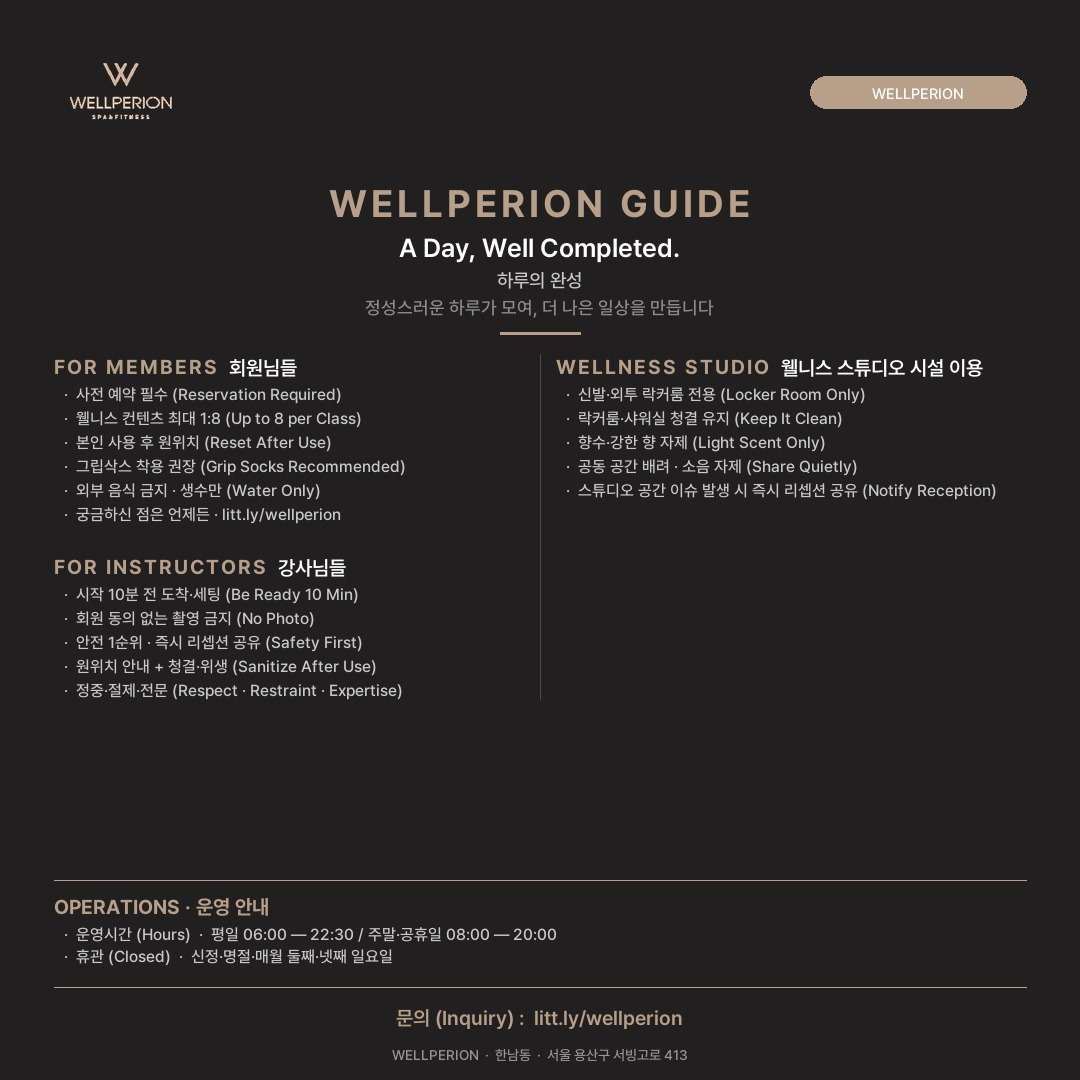
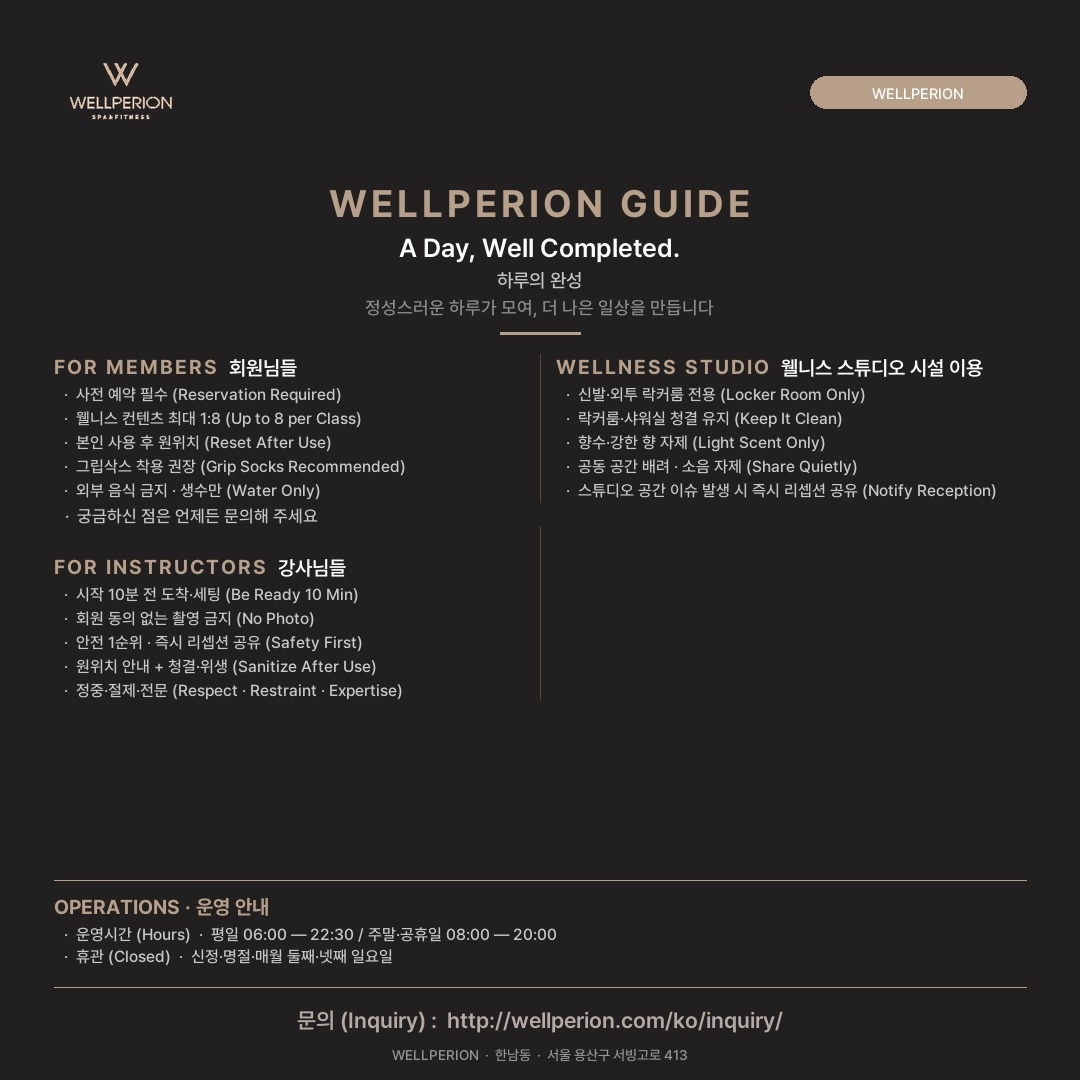
fix(cmo): 콘텐츠 제작 활성 소스 CTA litt.ly → http://wellperion.com/ko/inquiry/
신규 업로드 산출물마다 옛 litt.ly 링크가 찍히던 원인(제작 소스 박힘) 제거.
활성 템플릿/생성기만 교체, 과거 발행·아카이브·증빙은 불변 보존.

- instagram/_assets/guideline_card.jpg: 매 IG 콘텐츠 마지막 자동첨부 표준 GUIDE 카드.
  litt.ly 2곳(회원 안내 bullet · 푸터 문의) surgical 패치 → 푸터 = inquiry 풀경로,
  회원 bullet은 컬럼 폭 제약상 "문의해 주세요"로 정리(URL은 푸터 단일 노출).
  Pretendard 폰트·원색·배경 매칭, 레이아웃 무변경. 생산 컴포지터로 재생성 렌더 검증.
- scripts/slide_compositor.py: footer_meta docstring 예시 litt.ly → inquiry.
- scripts/naver_blog_upload_playwright.py: 스티커 앵커 주석의 예시 문의줄 litt.ly → inquiry.
- cmo/survey/create_english_forms.gs (4곳) + cmo/survey/en/*.md (4파일):
  영문 폼 안내문 "For immediate assistance" CTA litt.ly → inquiry.

미변경(의도): instagram/{date}_*/ 과거 발행분·증빙, cmo_kpi_collector(KPI 라벨),
ig_series_producer(litt.ly 금지 명시), apps_script_survey.js(시스템 설명 주석),
review_queue.json(발행 이력), onboarding/game.html(전환 교육 콘텐츠).

Changed region(s): [[0.275, 0.9167, 0.7028, 0.9778], [0.0611, 0.4583, 0.3056, 0.4889]]

diff --git a/3. 웰페리온 가이드/wellperion_guide(main).html b/3. 웰페리온 가이드/wellperion_guide(main).html
@@ -616,17 +616,17 @@
     <!-- AUTO:LATEST-START -->
     <div class="card grow">
       <h4>최신 업데이트 — 2026-06-04 (자동 갱신)</h4>
+      <p><strong>2026-06-04</strong> feat(hub): 가이드허브 favicon = 웰리 왕관 심볼(2번) 적용</p>
       <p><strong>2026-06-04</strong> feat(brand): 웰리 공식 심볼 확정(2번 왕관+보석) + 6종 변형·엠블럼·favicon·SVG 누적 — instagram/Ima…</p>
       <p><strong>2026-06-04</strong> feat(cto): Bing 이미지 크리에이터 무료 AI 그림 생성 자동화 도구</p>
       <p><strong>2026-06-04</strong> feat(cto): wordpress_admin_playwright swap-href 모드 — 본문 단일 href 외과적 치환</p>
       <p><strong>2026-06-04</strong> feat(cmo): 당근 글+임시저장 자동화 성공 — 제목·본문·임시저장 작동 / 이미지 Shadow DOM 첨부는 시토 R&D 위임(B)</p>
-      <p><strong>2026-06-04</strong> feat(designer): 웰리 엠블럼 시안2 — 미니멀 라인 심볼 SVG 2종(왕관+미소/왕관얼굴) + PNG. 브랜드색 베이지선·블랙…</p>
     </div>
 <!-- AUTO:LATEST-END -->
         <table>
           <tr><th style="width:160px">날짜</th><th>변경 내용</th></tr>
           <!-- AUTO:TABLE-START -->
-      <tr><td><strong>2026-06-04 (자동)</strong></td><td>feat(brand): 웰리 공식 심볼 확정(2번 왕관+보석) + 6종 변형·엠블럼·favicon·SVG 누적 — instagram/Image/welly_concept · feat(cto): Bing 이미지 크리에이터 무료 AI 그림 생성 자동화 도구 · feat(cto): wordpress_admin_playwright swap-href 모드 — 본…</td></tr>
+      <tr><td><strong>2026-06-04 (자동)</strong></td><td>feat(hub): 가이드허브 favicon = 웰리 왕관 심볼(2번) 적용 · feat(brand): 웰리 공식 심볼 확정(2번 왕관+보석) + 6종 변형·엠블럼·favicon·SVG 누적 — instagram/Image/welly_concept · feat(cto): Bing 이미지 크리에이터 무료 AI 그림 생성 자동화 도구 · feat(cto)…</td></tr>
       <!-- AUTO:TABLE-END -->
           <tr><td><strong>2026-05-28 (14차)</strong></td><td>공지/안내문 생성(COO 하위) · 오프라인 홍보물 디자인 제작(CMO 하위) 도구 신설 · 공지 서식 v2.0 독립 페이지화 · 회사소개서·전략로드맵 원본 「3. 웰페리온 가이드/회사문서/」로 이관(SSOT 단일화) · C-Level 부팅 R/R Notion API→가이드허브 g10 참조로 전환 · GitHub Pages 워크플로 폴더명 경로 수정 · 사이드바 "공통+7개 C-Level" 라벨 제거</td></tr>
           <tr><td>2026-05-27 (13차)</td><td>GitHub Pages 전환 · 사이드바 4섹터 · AI C-Level 통일 · 운영 통합 체계 · 공식채널·지출현황·취업규칙·SSOT 신설 · g2+g19·g9+g20·g12·g13 합병 · 김남욱 탭 확장 · v2.5</td></tr>

diff --git a/scripts/naver_blog_upload_playwright.py b/scripts/naver_blog_upload_playwright.py
@@ -529,7 +529,7 @@ async def _enter_write_and_fill(page, post: BlogPost, blog_id: str | None) -> No
         pass
 
     # 스티커 2개 위치 지정 삽입 (GM 지시 2026-06-03):
-    #   ① 본문 맨 처음 1개  ② '문의 : litt.ly/wellperion' 줄 다음 1개.
+    #   ① 본문 맨 처음 1개  ② '문의 : http://wellperion.com/ko/inquiry/' 줄 다음 1개.
     #   순서: 시작 스티커 먼저 → '문의' 줄 재탐색 후 그 다음에 삽입(텍스트 매칭이라 caret 충돌 없음).
     #   이미지는 맨 마지막에 본문 끝(Ctrl+End)으로 삽입하므로 스티커와 caret 충돌 없음.
     sticker_count = getattr(post, "sticker_count", STICKER_COUNT_DEFAULT)

diff --git a/scripts/slide_compositor.py b/scripts/slide_compositor.py
@@ -581,7 +581,7 @@ def compose_unified_slide(
     Args:
         label_eng: 영문 라벨 (정보 영역 상단, 대문자, 작게)
         body_text: 한글 본문 (줄바꿈 \\n 구분 다중 줄)
-        footer_meta: 풋터 라인 (예: "litt.ly/wellperion") — 옵션
+        footer_meta: 풋터 라인 (예: "http://wellperion.com/ko/inquiry/") — 옵션
     """
     if aspect not in ASPECT_PRESETS:
         raise ValueError(f"Unknown aspect: {aspect}")

diff --git a/3. 웰페리온 가이드/cmo/survey/en/membership.md b/3. 웰페리온 가이드/cmo/survey/en/membership.md
@@ -93,4 +93,4 @@
 ---
 
 *Tour appointments are available by prior reservation only. Walk-in visits are not accepted.*
-*For immediate assistance, please contact us via the official Wellperion channel: https://litt.ly/wellperion*
+*For immediate assistance, please contact us via the official Wellperion channel: http://wellperion.com/ko/inquiry/*

diff --git a/3. 웰페리온 가이드/cmo/survey/en/summer-special.md b/3. 웰페리온 가이드/cmo/survey/en/summer-special.md
@@ -118,4 +118,4 @@
 ---
 
 *All Summer Special programs are by prior reservation only. Availability is limited — early inquiry is encouraged.*
-*For immediate assistance: https://litt.ly/wellperion*
+*For immediate assistance: http://wellperion.com/ko/inquiry/*

diff --git a/3. 웰페리온 가이드/cmo/survey/en/youth-lesson.md b/3. 웰페리온 가이드/cmo/survey/en/youth-lesson.md
@@ -114,4 +114,4 @@
 ---
 
 *All youth programs are by prior reservation only. Walk-in visits are not accepted.*
-*For immediate assistance: https://litt.ly/wellperion*
+*For immediate assistance: http://wellperion.com/ko/inquiry/*

diff --git a/3. 웰페리온 가이드/cmo/survey/en/adult-lesson.md b/3. 웰페리온 가이드/cmo/survey/en/adult-lesson.md
@@ -119,4 +119,4 @@
 ---
 
 *All lessons are by prior reservation only. Walk-in visits are not accepted.*
-*For immediate assistance: https://litt.ly/wellperion*
+*For immediate assistance: http://wellperion.com/ko/inquiry/*
